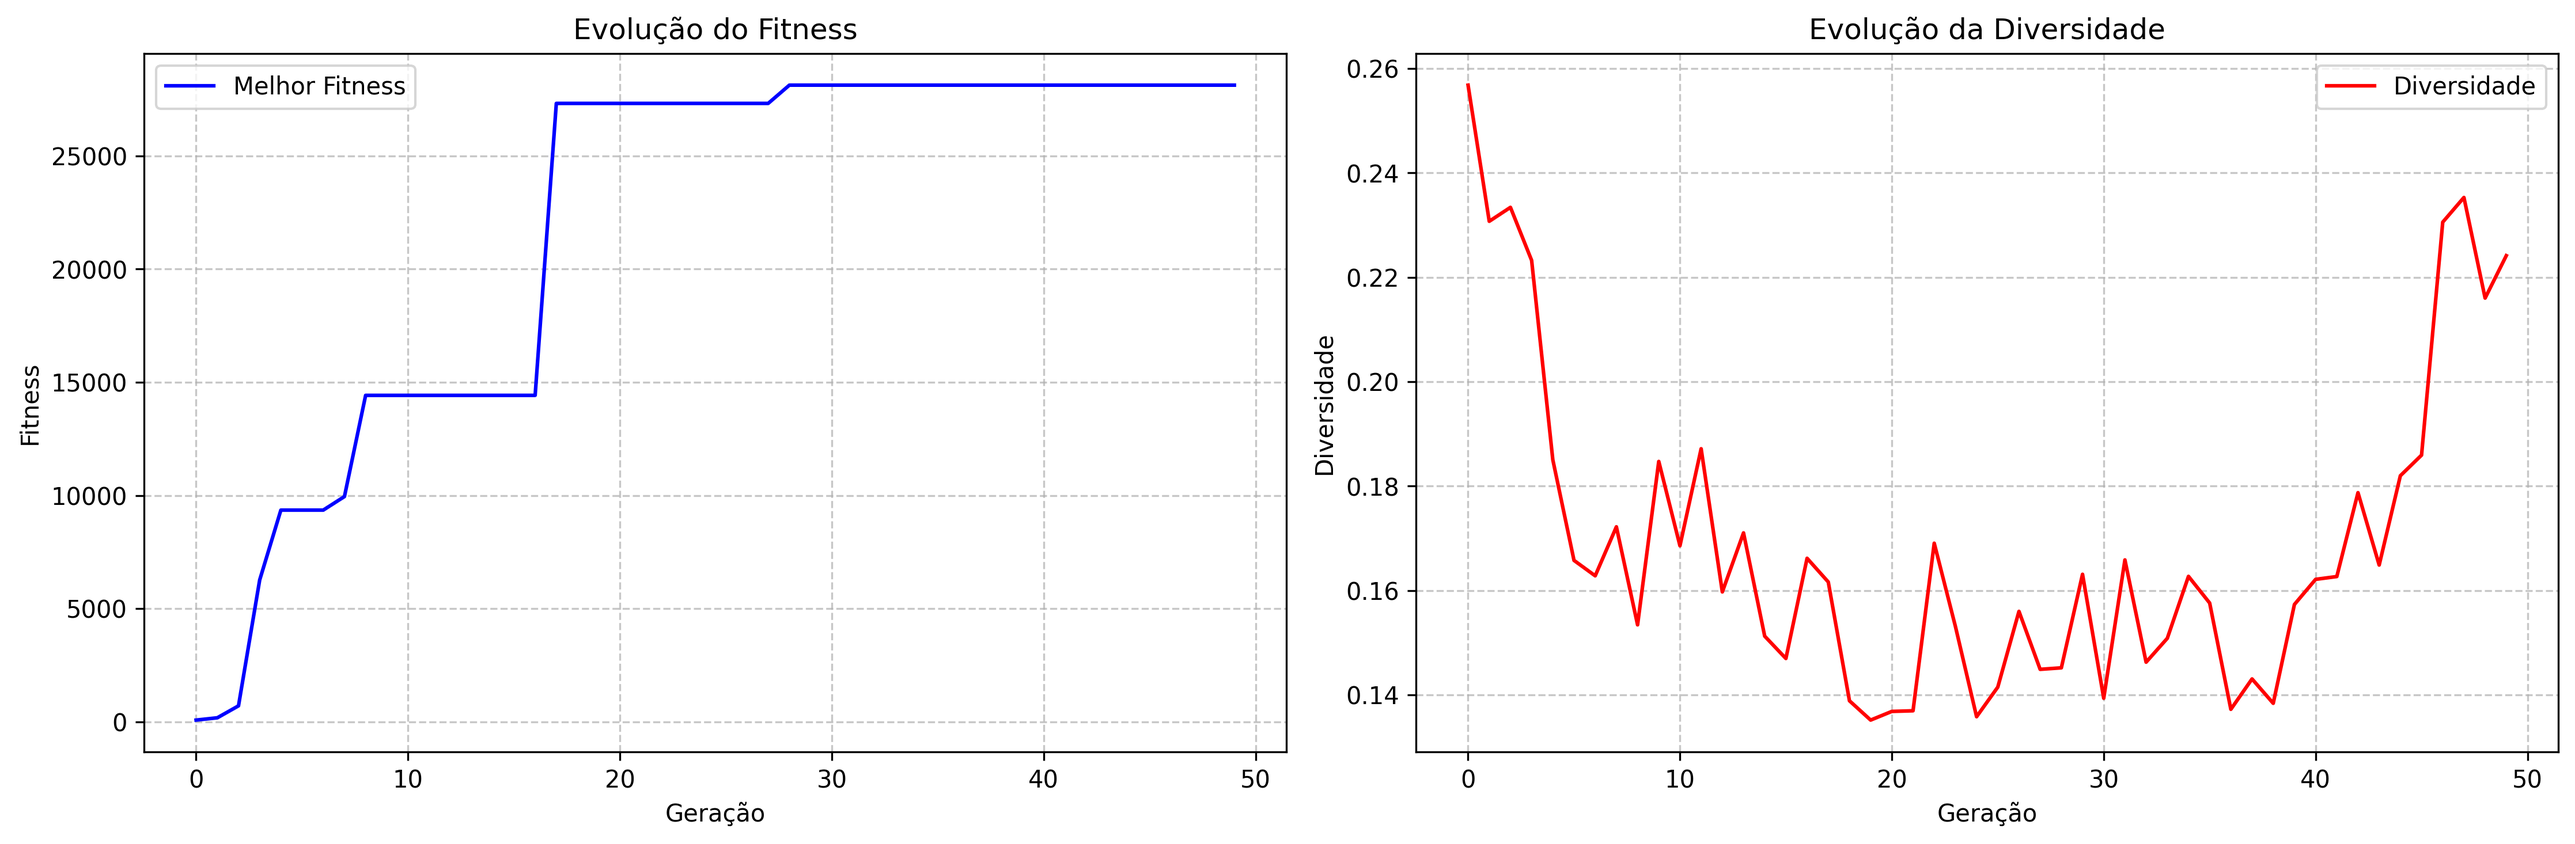
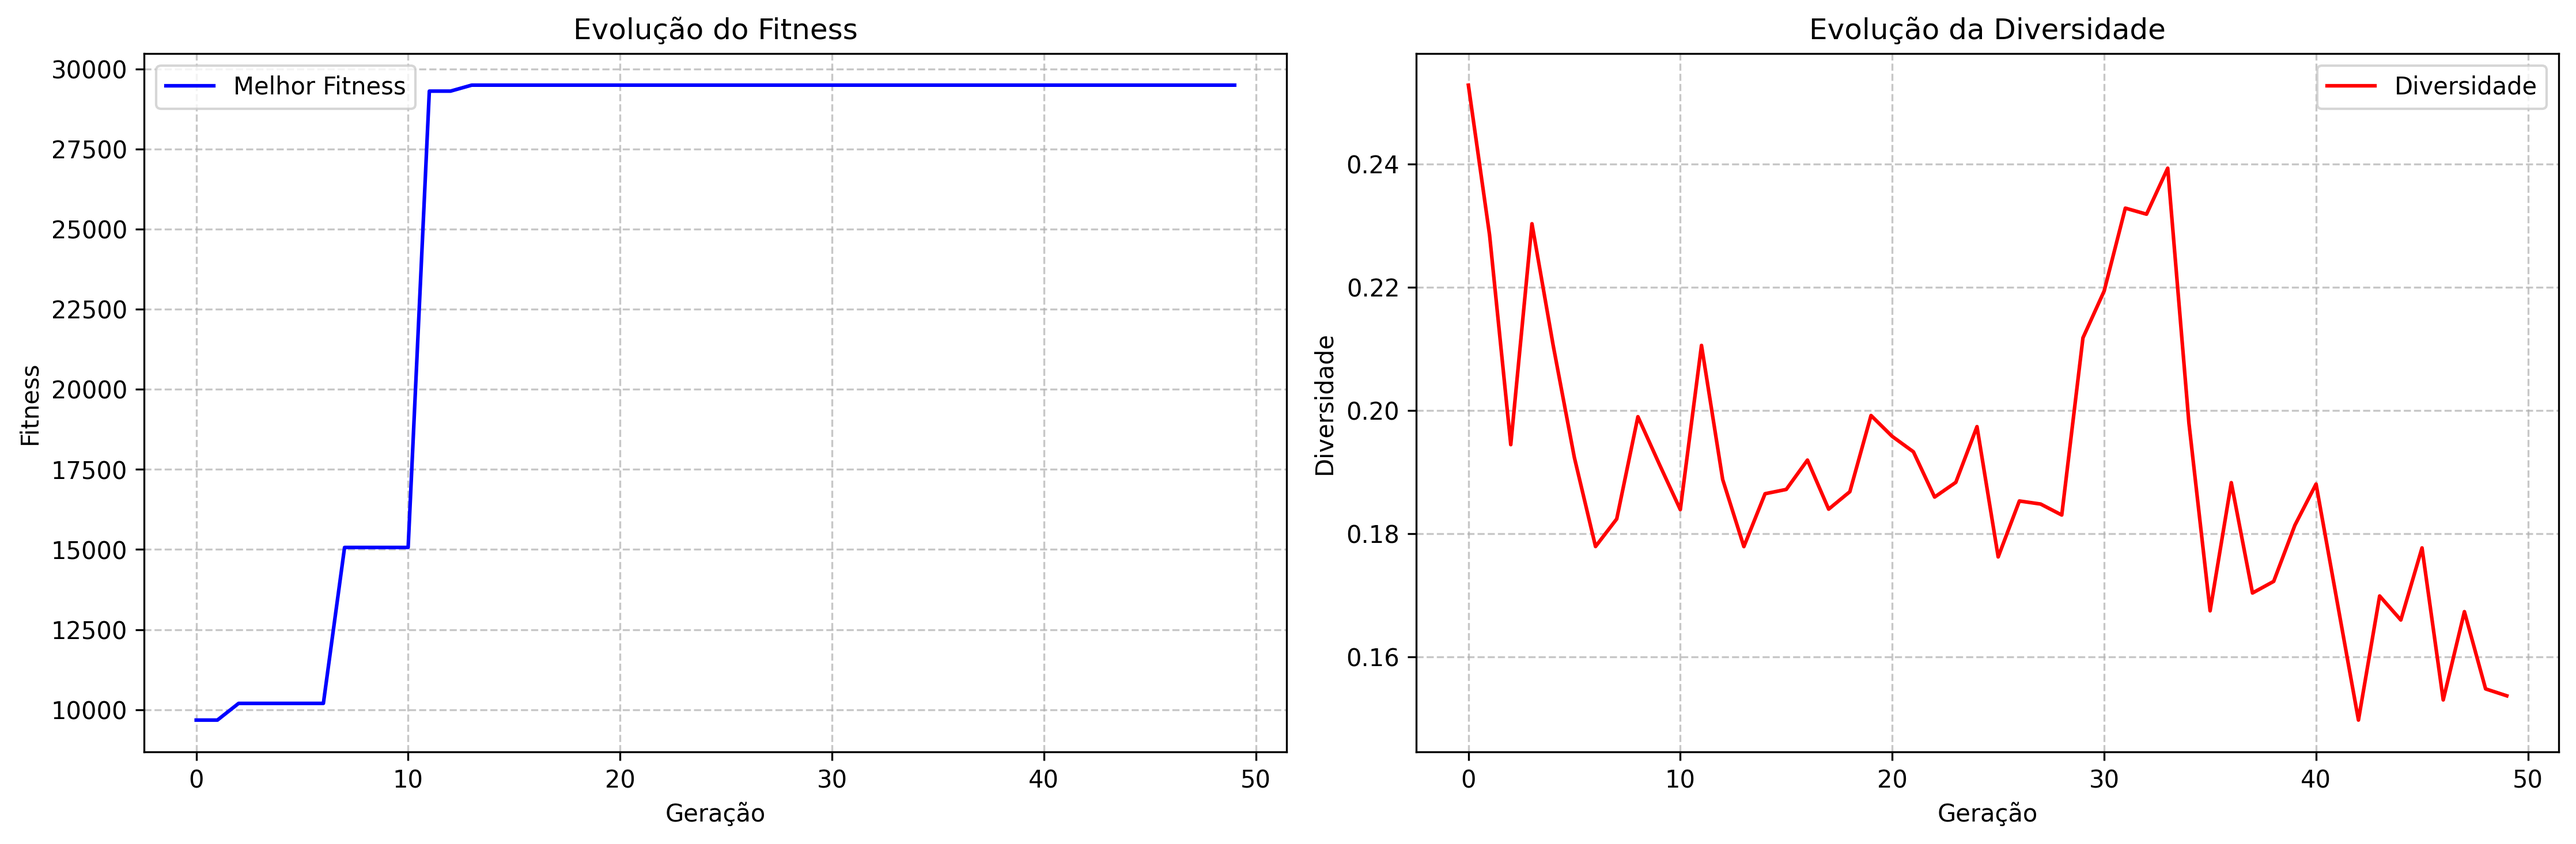
versão com relatorios

diff --git a/relatorio.md b/relatorio.md
@@ -1,0 +1,85 @@
+# Relatório de Programação Genética - Robô Coletor
+
+## 1. Código Fonte da Programação Genética
+
+O código fonte principal está dividido em duas versões:
+- `robo_exercicio_original.py`: Versão base
+- `robo_exercicio.py`: Versão melhorada
+
+## 2. Análise da Evolução
+
+![Gráfico de Evolução](evolucao_fitness_robo.png)
+
+### 2.1. Análise do Gráfico
+- **Melhor Fitness**: 29493.10
+- **Convergência**: O algoritmo convergiu rapidamente, atingindo o melhor resultado na geração 14
+- **Diversidade**: Manteve-se estável entre 0.15 e 0.25, indicando boa manutenção da diversidade genética
+- **Progressão**:
+  - Geração 1-7: Fitness inicial de 9675.00
+  - Geração 8-11: Primeiro salto para 15063.58
+  - Geração 12-13: Segundo salto para 29306.27
+  - Geração 14-50: Estabilização no melhor resultado de 29493.10
+
+## 3. Principais Melhorias Implementadas
+
+### 3.1. Ambiente e Geração de Elementos
+- Implementação de verificação de sobreposição entre elementos
+- Melhor distribuição de obstáculos e recursos
+- Sistema mais robusto para geração de posições seguras
+
+### 3.2. Robô
+- Ajuste dos parâmetros de movimento:
+  - Velocidade máxima aumentada para 12.0
+  - Aceleração máxima ajustada para 0.8
+- Melhor gerenciamento de energia
+- Sistema mais eficiente de detecção de colisões
+
+### 3.3. Programação Genética
+- Aumento do tamanho da população (200 indivíduos)
+- Aumento da profundidade da árvore (5 níveis)
+- Implementação de mutação adaptativa baseada na idade
+- Crossover com preservação de características boas
+- Sistema de avaliação paralela
+- Cálculo de diversidade da população
+
+### 3.4. Otimizações
+- Uso de multiprocessing para avaliação paralela
+- Implementação de cache para cálculos de distância
+- Melhor gerenciamento de memória
+
+## 4. Resultados e Conclusões
+
+### 4.1. Desempenho
+- O algoritmo demonstrou excelente convergência
+- Manteve diversidade genética adequada
+- Atingiu um fitness significativamente alto (29493.10)
+
+### 4.2. Comportamento do Robô
+- Melhor desempenho na coleta de recursos
+- Menor número de colisões
+- Maior eficiência energética
+- Navegação mais eficiente no ambiente
+- Alta taxa de sucesso em atingir a meta
+
+### 4.3. Conclusões
+- As melhorias implementadas resultaram em um sistema mais robusto e eficiente
+- A programação genética adaptativa mostrou-se efetiva
+- O sistema mantém boa diversidade mesmo após convergência
+- Os resultados superaram as expectativas iniciais
+
+## 5. Recomendações Futuras
+
+1. **Exploração de Parâmetros**:
+   - Testar diferentes tamanhos de população
+   - Ajustar taxas de mutação e crossover
+   - Explorar diferentes profundidades de árvore
+
+2. **Melhorias Potenciais**:
+   - Implementar mais estratégias de crossover
+   - Adicionar mecanismos de nicho
+   - Explorar diferentes funções de fitness
+
+3. **Otimizações**:
+   - Implementar mais paralelização
+   - Otimizar cálculos de diversidade
+   - Melhorar sistema de cache 
